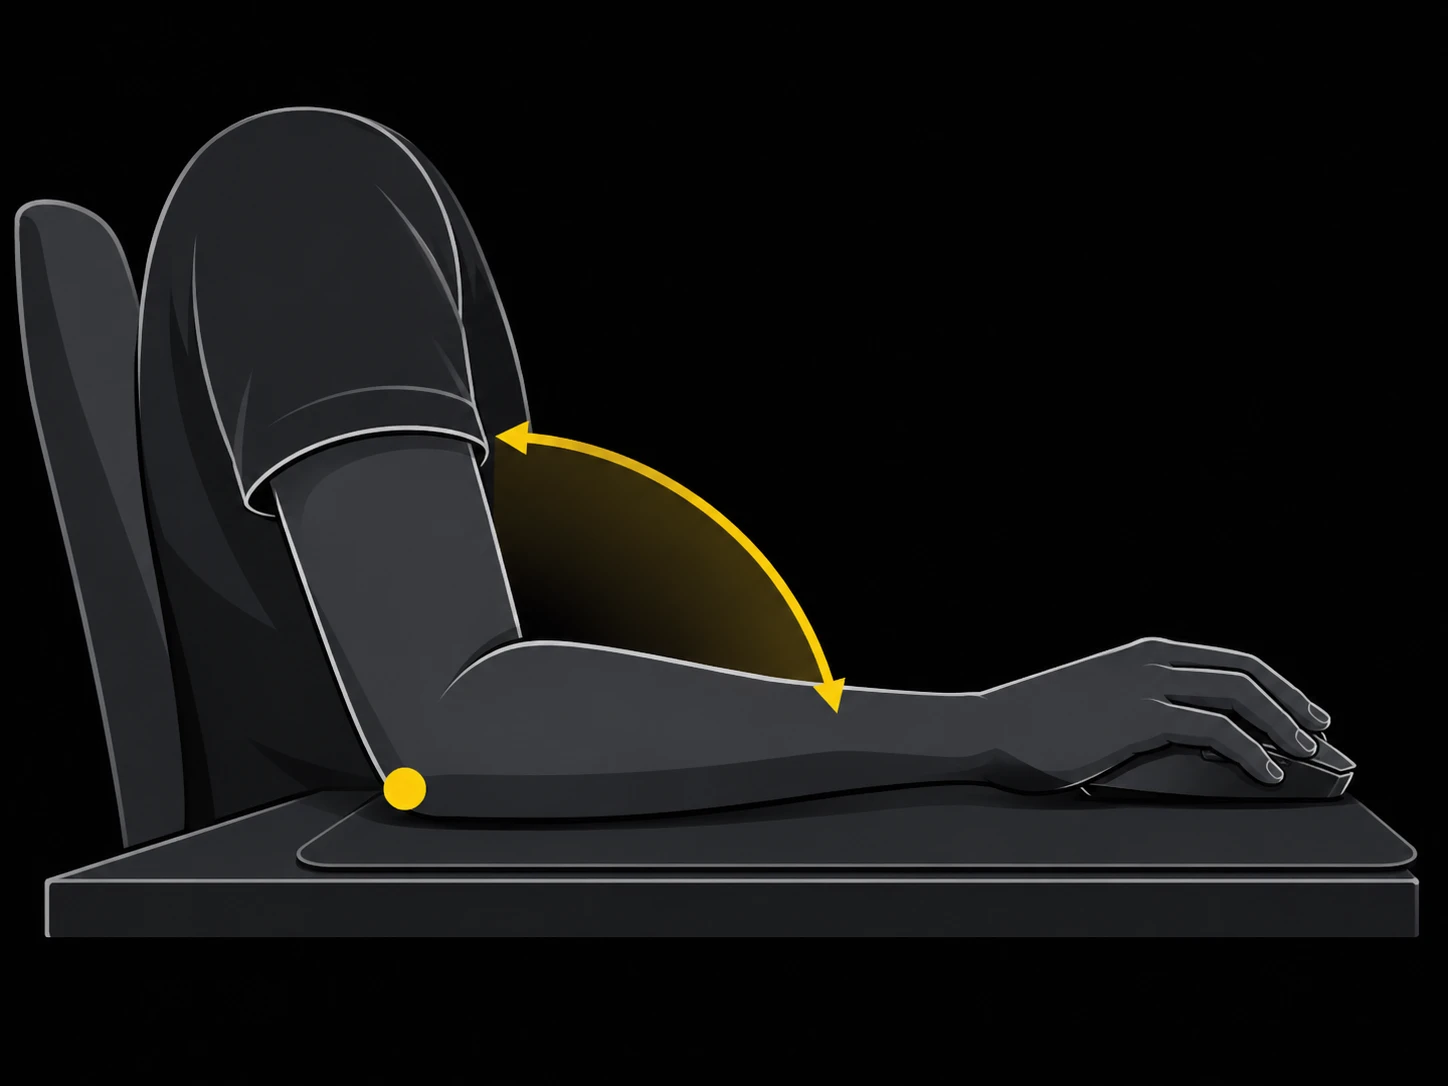
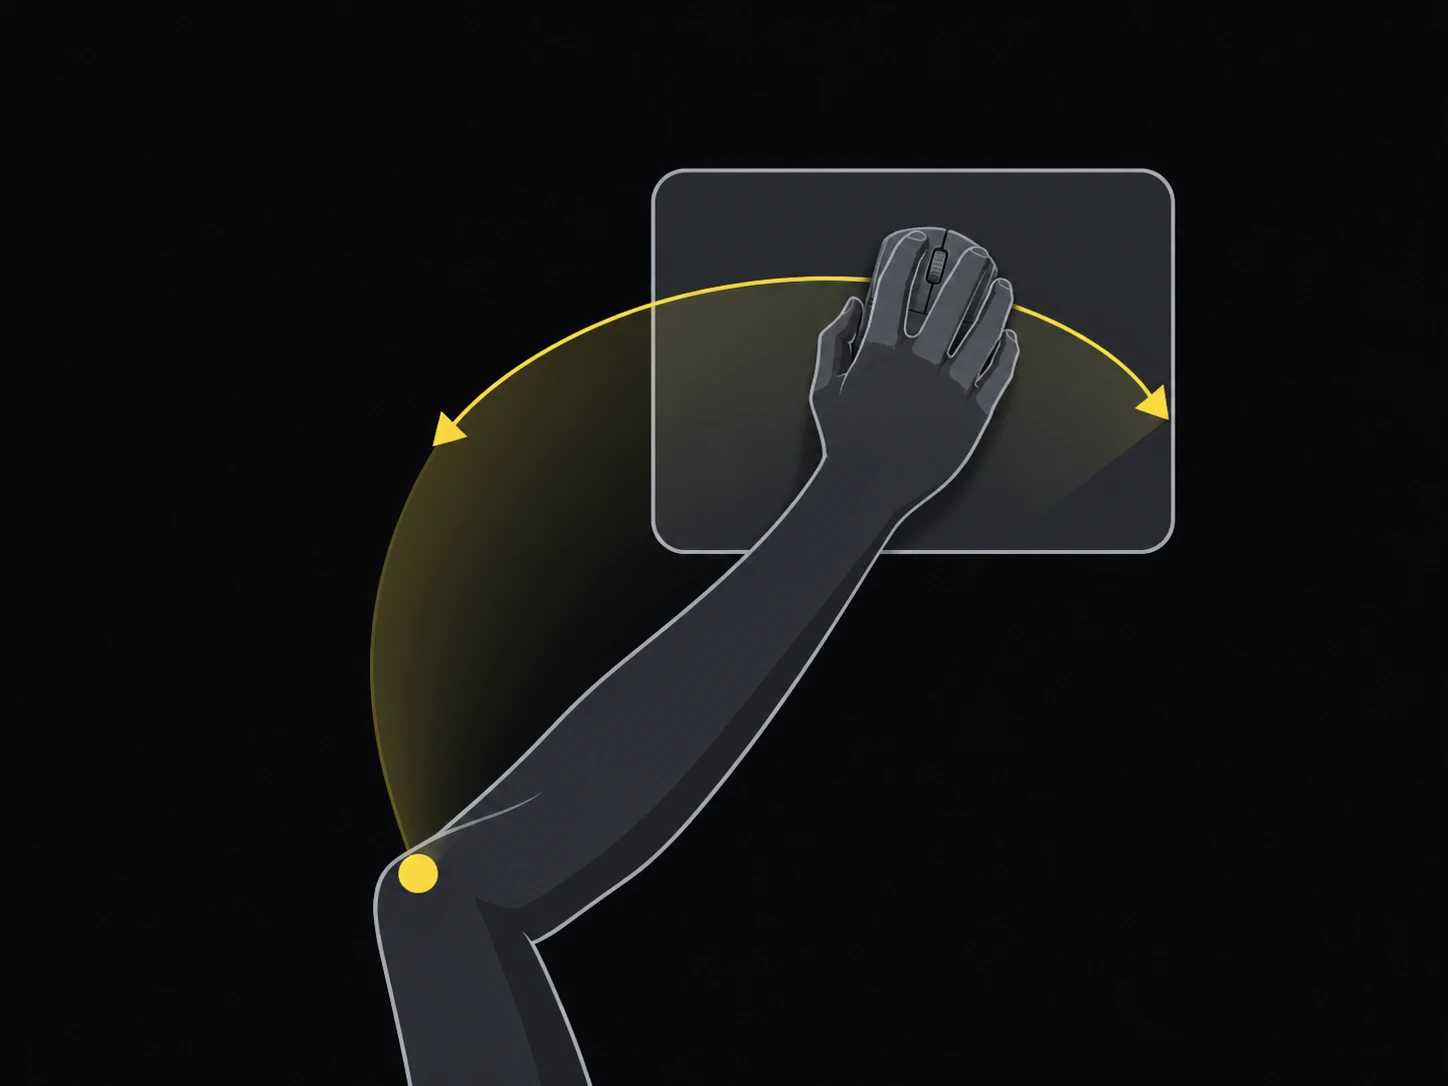
feat: final arm picture for the aim question

diff --git a/assets/questions/SOURCES.md b/assets/questions/SOURCES.md
@@ -13,8 +13,8 @@ No third-party artwork is used in the placeholders.
 ## Status per file
 
 - Final AI art (vectorised): `grip_palm`, `grip_claw`, `grip_fingertip`, `pivot_wrist`,
-  `pivot_fingers`, `pivot_shoulder`, `pad_small`, `pad_medium`, `pad_large`.
-- Still placeholders: `pivot_arm` (original being regenerated), `not_sure`
+  `pivot_fingers`, `pivot_arm`, `pivot_shoulder`, `pad_small`, `pad_medium`, `pad_large`.
+- Still placeholders: `not_sure`
   (no original).
 
 ## Regenerating from the originals
